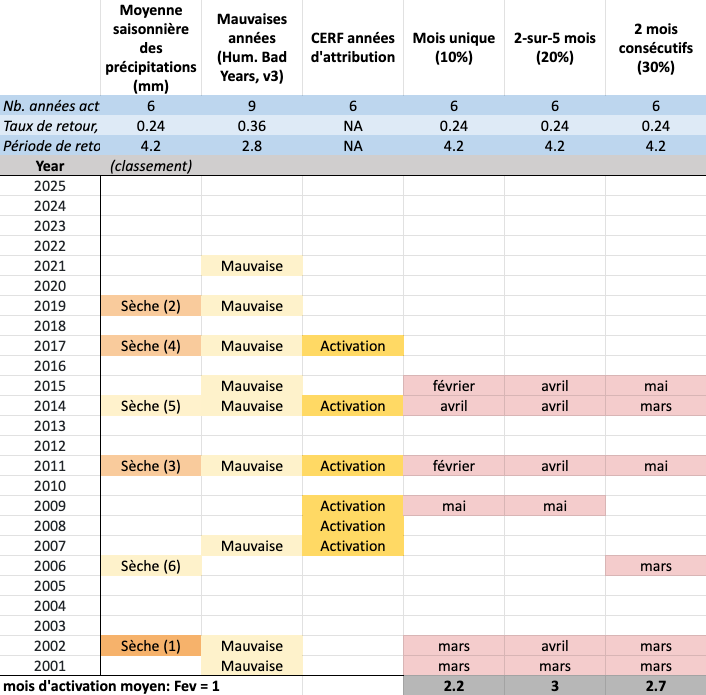
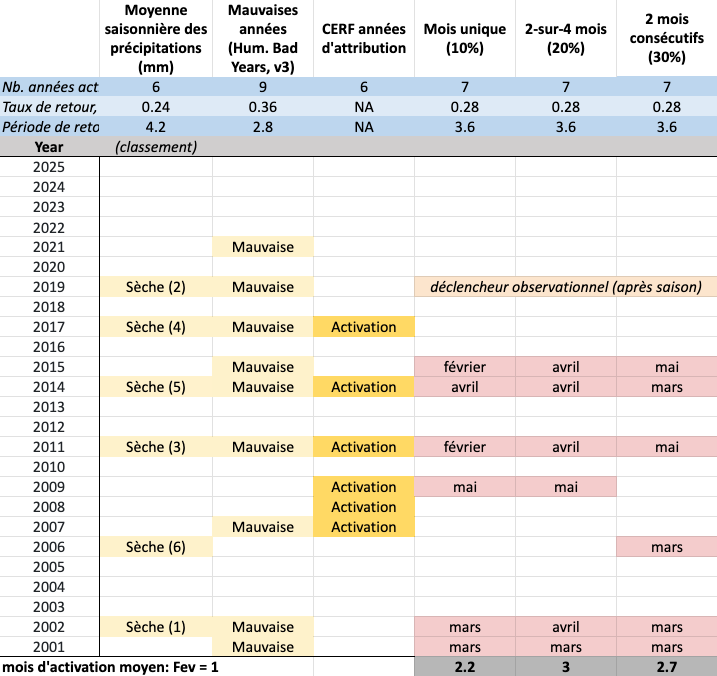
Deployed 2010652 with MkDocs version: 1.6.1

diff --git a/options/index.html b/options/index.html
@@ -319,10 +319,43 @@
 </li>
       
         <li class="md-nav__item">
-  <a href="#nous-avons-desactive-le-formulaire-en-attendant-la-mise-a-jour-des-options" class="md-nav__link">
+  <a href="#facteurs-importants-a-considerer-lors-du-choix-dun-protocole" class="md-nav__link">
     <span class="md-ellipsis">
       
-        NOUS AVONS DÉSACTIVÉ LE FORMULAIRE EN ATTENDANT LA MISE À JOUR DES OPTIONS
+        Facteurs importants à considérer lors du choix d’un protocole
+      
+    </span>
+  </a>
+  
+</li>
+      
+        <li class="md-nav__item">
+  <a href="#declenchement-sur-un-seul-mois-10" class="md-nav__link">
+    <span class="md-ellipsis">
+      
+        Déclenchement sur un seul mois (10 %)
+      
+    </span>
+  </a>
+  
+</li>
+      
+        <li class="md-nav__item">
+  <a href="#declenchement-sur-deux-mois-consecutifs-30" class="md-nav__link">
+    <span class="md-ellipsis">
+      
+        Déclenchement sur deux mois consécutifs (30 %)
+      
+    </span>
+  </a>
+  
+</li>
+      
+        <li class="md-nav__item">
+  <a href="#note-sur-le-calendrier" class="md-nav__link">
+    <span class="md-ellipsis">
+      
+        Note sur le calendrier
       
     </span>
   </a>
@@ -397,15 +430,34 @@
 - Les différents protocoles peuvent déclencher dans des années différentes, ce qui entraîne des niveaux de précision différents. 
 - Les différents protocoles peuvent déclencher plus tôt ou plus tard dans l’année, donnant des délais de préparation différents.
 </code></pre>
+<h2 id="facteurs-importants-a-considerer-lors-du-choix-dun-protocole">Facteurs importants à considérer lors du choix d’un protocole</h2>
+<pre><code>- **Précocité du déclenchement **
+Le moment où le déclenchement se produit influence directement le délai disponible pour mettre en œuvre     des actions anticipatoires.
+- **Années présentant des prévisions de sécheresse **
+Les différents protocoles identifient des années différentes comme répondant à la condition de sécheresse.
+</code></pre>
+<h2 id="declenchement-sur-un-seul-mois-10">Déclenchement sur un seul mois (10 %)</h2>
+<pre><code>- Nécessite **un seul mois** présentant une prévision de sécheresse extrême.
+- La condition est remplie **immédiatement**, sans mois de vérification.
+-Cette option conduit généralement à des déclenchements plus précoces.
+</code></pre>
+<h2 id="declenchement-sur-deux-mois-consecutifs-30">Déclenchement sur deux mois consécutifs (30 %)</h2>
+<pre><code>- Nécessite **deux mois consécutifs** présentant des prévisions de sécheresse (moins extrêmes que pour  le seuil d’un seul mois).
+- Inclut un mois de vérification, ce qui allonge le temps nécessaire avant que la condition soit remplie.
+- Cette option conduit généralement à des déclenchements plus tardifs dans la saison.
+</code></pre>
+<h2 id="note-sur-le-calendrier">Note sur le calendrier</h2>
+<pre><code>- Le déclenchement intervient autour du 20ᵉ jour de chaque mois.
+Par exemple, une « prévision de mars » correspond approximativement au 20 mars.
+</code></pre>
 <p>Veuillez examiner attentivement le tableau, en discuter, puis partager vos réflexions dans le formulaire ci‑dessous. </p>
-<h2 id="nous-avons-desactive-le-formulaire-en-attendant-la-mise-a-jour-des-options"><strong>NOUS AVONS DÉSACTIVÉ LE FORMULAIRE EN ATTENDANT LA MISE À JOUR DES OPTIONS</strong></h2>
+<!-- ## **NOUS AVONS DÉSACTIVÉ LE FORMULAIRE EN ATTENDANT LA MISE À JOUR DES OPTIONS** 
+
 <!-- comment out the real form until ready
 <div id="slide-config" data-type="kobo" data-next="../finished/" data-kobo-id="mwm1aL8O" data-width="100%"> </div>
->
-
-<div id="slide-config" data-type="kobo" data-next="../finished/" data-kobo-id="" data-width="100%"> </div>
-
 -->
+
+<div id="slide-config" data-type="kobo" data-next="../finished/" data-kobo-id="hqxy8bT9" data-width="100%"> </div>
 
 
 
